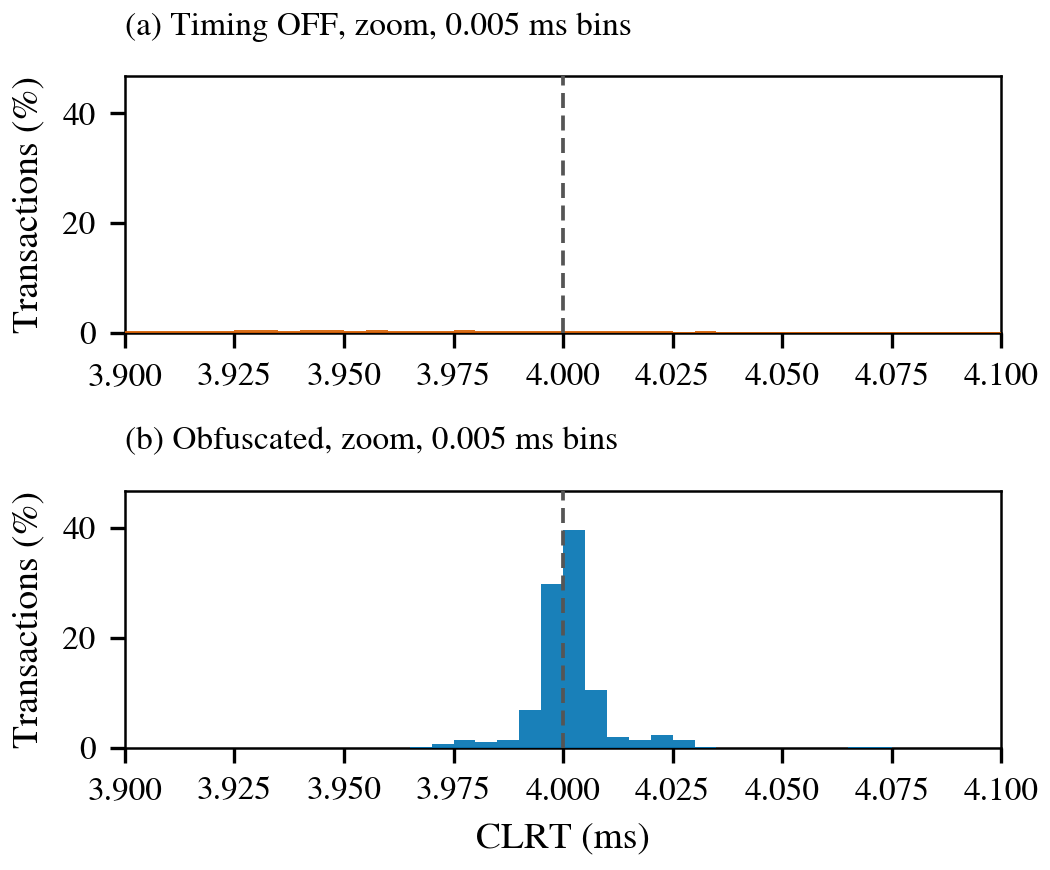
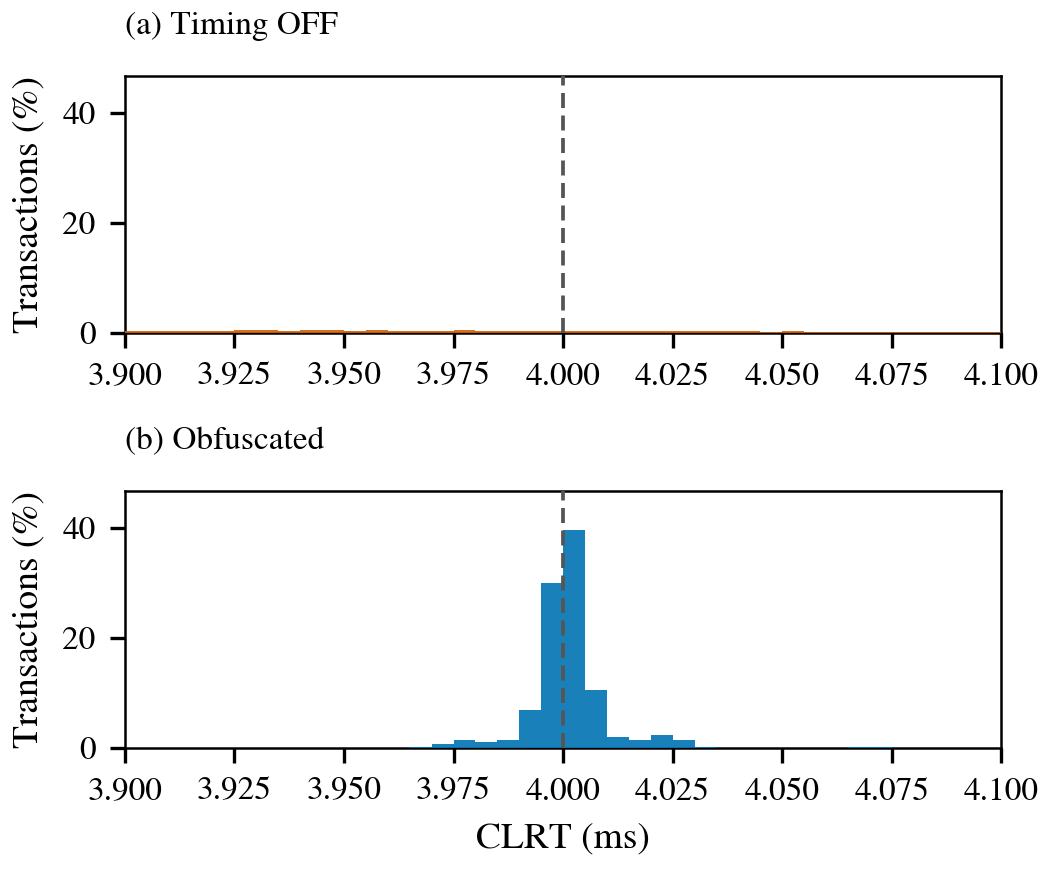
give the repository one definition of the response latency
The 2026-09-17 review found NOTATION_MAPPING.md holding four contradictory statements about D_R at
once, and the same stale definition repeated in the writing guide, REPOSITORY_MAP.md, the paper's
README, an audit note and a generated figure method file. An editor following the documented
authority could have undone a correct manuscript paragraph, which is the regression this repairs.

D_R is the response's whole journey, from the outstation putting the response on the wire to the
master receiving it, and it is unmeasured here. It is not m_R - t_R: that is a modelled partial
journey, and it is not measured either, because t_R is the response's arrival at the switch and no
capture records it. The identity now carries the relay-facing hop that the earlier one omitted.

The epsilon passage no longer calls the instrumented interval a lower bound on epsilon. Both of its
timestamps are taken in ingress on a recirculating blocker token, so it is an internal
blocker-termination interval and bounds epsilon in neither direction, which is what the manuscript
already says.

The CLRT zoom panels drop the bin width from their titles, where it repeated on both panels; the
caption states it.

diff --git a/defense4/timing/audit_current/tools/clrt_distribution_and_variance.py b/defense4/timing/audit_current/tools/clrt_distribution_and_variance.py
@@ -590,8 +590,9 @@ def figure_zoom(by_arm, target_ms, out, inputs, bin_rows):
         shares[arm] = 100.0 * inside / float(v.size)
         _draw_finite_bars(ax, pct, edges, arm)
         ax.axvline(target_ms, color=fs.GREY, ls=(0, (4, 2)), lw=0.9, zorder=5)
-        ax.set_title(_panel_title(tag, arm, ", zoom, %.3f ms bins" % w), loc="left",
-                     fontsize=8, pad=10.0)
+        # The bin width belongs in the caption, which states it, not in the panel title where it
+        # repeats on both panels and crowds the arm name.
+        ax.set_title(_panel_title(tag, arm, ""), loc="left", fontsize=8, pad=10.0)
         ax.set_xlim(z_lo, z_hi)
         ax.set_ylabel("Transactions (%)")
         for i in range(n):
@@ -665,7 +666,8 @@ def _method_note(w, w_fd_main, cutoff, panels, target_ms, acc):
         "`defense4/timing/NOTATION_MAPPING.md` that is m_R - m_A. It is CLRT_original in the "
         "Timing OFF arm and the measured CLRT_new in the Obfuscated arm. The configured value "
         "is the policy field named D_R_ms; under the manuscript's convention that field is the "
-        "configured CLRT_new and it is not D_R, which is the response latency m_R - t_R. "
+        "configured CLRT_new and it is not D_R, which is the response latency: the response's "
+        "whole journey from the outstation to the master, unmeasured here. "
         "Measured and configured quantities are never merged: the dashed line is the "
         "configuration, the bars are the measurement. "
         "Transaction accounting: the extractor pairs one request with the first transport "

diff --git a/paper/rewrite/figures/clrt/fig_clrt_distributions.method.md b/paper/rewrite/figures/clrt/fig_clrt_distributions.method.md
@@ -1,1 +1,1 @@
-READ transactions only, from the frozen canonical table `defense4/timing/evidence/campaign_v1/derived/transactions.csv`, which covers 22 grouped collection runs on one SEL-751A relay behind one Intel Tofino-1, all timestamps taken on the master-facing link, at the single configured setting in `campaign_v1/repro/policy_config.json` (D_A = 20 ms, the configured CLRT_new = 4 ms carried in the field named D_R_ms, size carve disabled). No other device, corpus or policy setting enters this figure. The policy sweep captures under `campaign_v1/sweep/` are a different workload and are not part of the canonical table, and the deliberate retransmission diagnostic under `relay_rto_20260915/` is a loss experiment, not an obfuscation result, and is excluded. CLRT is clrt_ms = (t_resp - t_ack) * 1e3, the interval between the transport acknowledgment arriving at the master host NIC and the application response arriving there, both timestamps taken at the same vantage on the master-facing link; in the notation of `defense4/timing/NOTATION_MAPPING.md` that is m_R - m_A. It is CLRT_original in the Timing OFF arm and the measured CLRT_new in the Obfuscated arm. The configured value is the policy field named D_R_ms; under the manuscript's convention that field is the configured CLRT_new and it is not D_R, which is the response latency m_R - t_R. Measured and configured quantities are never merged: the dashed line is the configuration, the bars are the measurement. Transaction accounting: the extractor pairs one request with the first transport acknowledgment and then the application response, so a retransmission cannot open a new transaction. Re-running the independent reader over all 132 campaign captures gives 63,360 exchanges with 0 retransmissions, 0 duplicate application frames, 0 malformed frames, 0 unpaired requests, 0 out-of-order timestamps and 0 frames from the wrong endpoint, matching the frozen table row for row. Of those, 52800 are READ and 10560 are SELECT or OPERATE and are not plotted here. 0 rows were dropped for a non-finite or non-positive interval, so the two arms carry equal counts and no transaction is missing a timestamp. Genuine late responses and timing outliers are retained; nothing is winsorized or smoothed. Binning follows Formby et al., NDSS 2016, who define the CLRT fingerprint as the vector of counts of an equal-width linear-bin histogram with an overflow bin for large values (their Equation 1) and plot CLRT distributions that way in their Figure 6(b); they evaluate 200-bin feature vectors for classification. The widths used here are our presentation choice and are not widths Formby states, and this figure is a plot rather than a classifier, so it carries no bin-count requirement. The main and companion panels use 1 ms bins anchored at 0 ms. Freedman-Diaconis on the Timing OFF sample gives 0.1866 ms; that rule assumes a roughly unimodal density and is reported rather than followed. Finite bins are half-open, [lo, hi), so a value equal to an interior edge belongs to the bin above it. The main view stops its finite bins at 15 ms and collects everything at or above that value, the cutoff itself included, into one overflow category drawn apart from the bins and hatched so it cannot be read as the ordinary interval; it holds 0.409 % of the Timing OFF sample and 0.027 % of the Obfuscated sample. The same cutoff is used in both panels. The companion figure `fig_clrt_distributions_full` repeats the comparison with no cutoff at all, so no tail is lost. Bins were not shifted off the origin: the configured 4 ms falls exactly on an edge, which divides the obfuscated mass between the 3--4 and 4--5 ms bins, and that is left visible rather than hidden by moving the grid. Both panels share one pair of limits and one edge set, so a bar in one and a bar in its counterpart mean the same thing at the same height. The ordinate is linear and is a percentage of that arm's own transactions, weight 100/n, so the comparison does not depend on the two arms having equal samples; it is a per-bin share and not a probability density. No smoothing, kernel or per-sample spike is drawn. Bin counts including the overflow category are checked to sum to the plotted sample and the percentages to total 100 % before the figure is written. Every statistic in the annotations and in the CSVs is computed from the raw millisecond samples, never from bin centres; sample variance uses the n-1 denominator.
+READ transactions only, from the frozen canonical table `defense4/timing/evidence/campaign_v1/derived/transactions.csv`, which covers 22 grouped collection runs on one SEL-751A relay behind one Intel Tofino-1, all timestamps taken on the master-facing link, at the single configured setting in `campaign_v1/repro/policy_config.json` (D_A = 20 ms, the configured CLRT_new = 4 ms carried in the field named D_R_ms, size carve disabled). No other device, corpus or policy setting enters this figure. The policy sweep captures under `campaign_v1/sweep/` are a different workload and are not part of the canonical table, and the deliberate retransmission diagnostic under `relay_rto_20260915/` is a loss experiment, not an obfuscation result, and is excluded. CLRT is clrt_ms = (t_resp - t_ack) * 1e3, the interval between the transport acknowledgment arriving at the master host NIC and the application response arriving there, both timestamps taken at the same vantage on the master-facing link; in the notation of `defense4/timing/NOTATION_MAPPING.md` that is m_R - m_A. It is CLRT_original in the Timing OFF arm and the measured CLRT_new in the Obfuscated arm. The configured value is the policy field named D_R_ms; under the manuscript's convention that field is the configured CLRT_new and it is not D_R, which is the response latency: the response's whole journey from the outstation to the master, unmeasured here. Measured and configured quantities are never merged: the dashed line is the configuration, the bars are the measurement. Transaction accounting: the extractor pairs one request with the first transport acknowledgment and then the application response, so a retransmission cannot open a new transaction. Re-running the independent reader over all 132 campaign captures gives 63,360 exchanges with 0 retransmissions, 0 duplicate application frames, 0 malformed frames, 0 unpaired requests, 0 out-of-order timestamps and 0 frames from the wrong endpoint, matching the frozen table row for row. Of those, 52800 are READ and 10560 are SELECT or OPERATE and are not plotted here. 0 rows were dropped for a non-finite or non-positive interval, so the two arms carry equal counts and no transaction is missing a timestamp. Genuine late responses and timing outliers are retained; nothing is winsorized or smoothed. Binning follows Formby et al., NDSS 2016, who define the CLRT fingerprint as the vector of counts of an equal-width linear-bin histogram with an overflow bin for large values (their Equation 1) and plot CLRT distributions that way in their Figure 6(b); they evaluate 200-bin feature vectors for classification. The widths used here are our presentation choice and are not widths Formby states, and this figure is a plot rather than a classifier, so it carries no bin-count requirement. The main and companion panels use 1 ms bins anchored at 0 ms. Freedman-Diaconis on the Timing OFF sample gives 0.1866 ms; that rule assumes a roughly unimodal density and is reported rather than followed. Finite bins are half-open, [lo, hi), so a value equal to an interior edge belongs to the bin above it. The main view stops its finite bins at 15 ms and collects everything at or above that value, the cutoff itself included, into one overflow category drawn apart from the bins and hatched so it cannot be read as the ordinary interval; it holds 0.409 % of the Timing OFF sample and 0.027 % of the Obfuscated sample. The same cutoff is used in both panels. The companion figure `fig_clrt_distributions_full` repeats the comparison with no cutoff at all, so no tail is lost. Bins were not shifted off the origin: the configured 4 ms falls exactly on an edge, which divides the obfuscated mass between the 3--4 and 4--5 ms bins, and that is left visible rather than hidden by moving the grid. Both panels share one pair of limits and one edge set, so a bar in one and a bar in its counterpart mean the same thing at the same height. The ordinate is linear and is a percentage of that arm's own transactions, weight 100/n, so the comparison does not depend on the two arms having equal samples; it is a per-bin share and not a probability density. No smoothing, kernel or per-sample spike is drawn. Bin counts including the overflow category are checked to sum to the plotted sample and the percentages to total 100 % before the figure is written. Every statistic in the annotations and in the CSVs is computed from the raw millisecond samples, never from bin centres; sample variance uses the n-1 denominator.

diff --git a/defense4/timing/NOTATION_MAPPING.md b/defense4/timing/NOTATION_MAPPING.md
@@ -13,7 +13,7 @@ convention below, and this file is the bridge.
 | symbol | earlier revision | now |
 |---|---|---|
 | `CLRT_target` | the configured acknowledgment-to-response gap | **withdrawn.** That quantity is now the *configured* `CLRT_new` |
-| `D_R` | the RESPONSE hold, `e_R - t_R` | **the response latency,** `m_R - t_R`. The hold keeps no symbol and is written from its endpoints |
+| `D_R` | the RESPONSE hold, `e_R - t_R` | **the response latency:** the response's whole journey, outstation transmission to master receipt, which is unmeasured here. The hold keeps no symbol and is written from its endpoints |
 
 There is no `X`, `Y`, or `C` for any of these quantities anywhere in the manuscript.
 
@@ -44,7 +44,7 @@ plus the differential path and capture delay between the two packets, which was 
 | `CLRT_new` | `e_R - e_A`, the acknowledgment-to-response interval after obfuscation | the obfuscation objective |
 | `D_A` | `e_A - t_A`, the **ACK hold** | transport feedback and retransmission timing |
 | response hold | `e_R - t_R`; **no symbol of its own** | not chosen; implied by the schedule |
-| `D_R` | `m_R - t_R`, the **response latency** | the operation, through whatever latency requirement the deployment carries |
+| `D_R` | the **response latency**: outstation transmission to master receipt, **unmeasured** | the operation, through whatever latency requirement the deployment carries |
 
 `CLRT_new` is used with one of two adjectives and never bare where the distinction matters:
 
@@ -95,19 +95,23 @@ So three different intervals must be kept apart, and only the second is observed
 | | interval | status |
 |---|---|---|
 | the full response latency, `D_R` | outstation transmission to master receipt | **unmeasured** |
-| the observed portion | `m_R - t_R`, switch arrival to master receipt | measured |
+| the partial journey | `m_R - t_R`, switch arrival to master receipt | **not measured either:** `m_R` is captured, `t_R` is not |
 | the switch's own contribution | `e_R - t_R`, the response hold | derived, see below |
 
-`m_R - t_R` is a lower bound on `D_R` and is referred to as the observed portion of the response
-journey, never as `D_R` itself. Reporting added latency, or a master-side CLRT, as a measurement
-of `D_R` would assert a quantity no capture here contains.
+`m_R - t_R` is a *modelled* partial journey and a lower bound on `D_R`. It is written from the
+model's endpoints rather than from timestamps this repository holds, because `t_R` is the
+response's arrival at the switch and no capture records it. Calling it measured, which an earlier
+revision of this file did, overstates what exists. Reporting added latency, or a master-side CLRT,
+as a measurement of `D_R` would assert a quantity no capture here contains.
 
-Because `e_R` is the response's **actual** departure from the switch, the exact identity is
+Writing `o` for the instant the outstation puts the response on the wire, the identity is
 
-    D_R = (e_R - t_R) + (m_R - e_R)
+    D_R = (t_R - o) + (e_R - t_R) + (m_R - e_R)
 
-that is, the actual hold plus the path from the switch to the master. An earlier revision of
-this file listed the hold and a separate blocker-draining term side by side. That double-counts:
+that is, the relay-facing hop, then the actual hold, then the path from the switch to the master.
+The first term is not observed at all, which is the reason `D_R` is unmeasured; an earlier
+revision omitted it and so defined `D_R` as something smaller than it is. A second earlier
+revision listed the hold and a separate blocker-draining term side by side, which double-counts:
 an actual departure already includes whatever post-deadline waiting preceded it, so the drain
 cannot be added again beside it.
 
@@ -123,8 +127,12 @@ If the hold is to be broken down further, it decomposes **once**, into three dis
    and 1,705 ns on the response lane, medians over twelve transactions, after decoding the armed
    marker in the deadline word; see
    `audit_current/epsilon_candidate/ATTRIBUTION_AND_DECODE_20260916.md`, which also records that
-   the build's identity is incompletely attributed. That interval ends at the last blocking
-   action and so is a lower bound on epsilon rather than epsilon itself. It characterizes the
+   the build's identity is now attributed. That interval ends at the last blocking action, and
+   both of its timestamps are taken in ingress on a recirculating blocker token, so it is
+   reported as an **internal blocker-termination interval** and is **not** claimed to bound
+   epsilon in either direction: the blocker's last traffic-manager service precedes its return to
+   ingress, and the ordering of the two endpoints has not been established. An earlier revision
+   of this file called it a lower bound on epsilon; that claim is withdrawn. It characterizes the
    mechanism and not any exchange in `campaign_v1`;
 3. **subsequent service** — from the end of blocking to the packet actually leaving.
 
@@ -145,7 +153,7 @@ which governs how long a select stays armed rather than how quickly a response m
 
 | | meaning | value in `campaign_v1` |
 |---|---|---|
-| Paper | `D_R`, the response latency `m_R - t_R` | per transaction; not directly observed |
+| Paper | `D_R`, the response latency, outstation transmission to master receipt | per transaction; **unmeasured** |
 | Code and archived evidence, field `D_R_ms` | the configured acknowledgment-to-response gap | 4 ms, constant |
 
 So **the code's `D_R_ms` maps to the paper's configured `CLRT_new`**, and the paper's `D_R` has no

diff --git a/paper/rewrite/pipeline/DR_LIN_WRITING_GUIDE.md b/paper/rewrite/pipeline/DR_LIN_WRITING_GUIDE.md
@@ -23,7 +23,9 @@ grammar, tense or factual content in place. Record concerns in
 supersedes the revision that briefly made `D_R` the response hold and introduced `CLRT_target`.
 
 * `D_A` is the **ACK hold**, `e_A - t_A`.
-* `D_R` is the **response latency**, `m_R - t_R`. It is not the hold and not the configured gap.
+* `D_R` is the **response latency**: the response's whole journey from the outstation to the
+  master. It is unmeasured here, it is not `m_R - t_R`, and it is neither the hold nor the
+  configured gap.
 * The **response hold**, `e_R - t_R`, has no symbol of its own and is written from its endpoints.
 * The configured gap is the **configured `CLRT_new`**. `CLRT_target` is withdrawn; do not use it.
 * Say **configured `CLRT_new`** for the policy value and **measured `CLRT_new`** for what the
@@ -42,7 +44,7 @@ field or a control-plane parameter to match the paper.
 | Introduction paragraph 3 as "why those approaches do not transfer", argued through DNP3 framing and CRC | His paragraph 3: different fingerprinting features, and the encrypted-channel assumption that does not hold here. The CRC and no-flexibility arguments are removed from the motivation. |
 | The prescribed Evaluation running order in section 2 | The reader's questions: what was measured; does the released interval reach its target; the control lane; the supported range; the cost; what the attacker still learns; limitations. The RO1-RO5 tags are retained inside those headings. |
 | Any requirement to assert firstness | Firstness is not required and is not asserted. |
-| Treating `D_R` as the configured gap, or as the response hold, in prose, equations or figure labels | The **configured `CLRT_new`** for the policy value; the response hold written from its endpoints `e_R - t_R`. `D_R` is the response latency `m_R - t_R`. |
+| Treating `D_R` as the configured gap, or as the response hold, in prose, equations or figure labels | The **configured `CLRT_new`** for the policy value; the response hold written from its endpoints `e_R - t_R`. `D_R` is the response latency, which is unmeasured here. |
 
 **Still in force and reaffirmed:** timing only, no size claim anywhere; no invented system name;
 the framework leads and READ/SELECT and OPERATE are its case studies; arm labels are *Timing OFF*
@@ -136,7 +138,7 @@ this draft, not a structure the advisor dictated.
 | timing-feature overlap (Figure 3) | clustering performance, t-SNE, UMAP |
 | transaction-class timing leakage / classifier | device identification, device-model separation |
 | CLRT (cross-layer response time) = response − ACK, master-facing | ACK-to-response "latency of the relay" without the observation point |
-| D_A = ACK hold; D_R = **response latency** `m_R - t_R`; the response hold `e_R - t_R` has no symbol; the configured gap is the **configured CLRT_new** (read path, both deadlines anchored to the relay ACK); A, R, J (control path, anchored to the request) | G; T0 + A for reads; `CLRT_target`, which is withdrawn; `D_R` for the configured gap or for the hold |
+| D_A = ACK hold; D_R = **response latency**, the response's whole journey from the outstation to the master, which is unmeasured here; the response hold `e_R - t_R` has no symbol; the configured gap is the **configured CLRT_new** (read path, both deadlines anchored to the relay ACK); A, R, J (control path, anchored to the request) | G; T0 + A for reads; `CLRT_target`, which is withdrawn; `D_R` for the configured gap or for the hold |
 | size shaping **off in both arms** in `campaign_v1`, so the comparison is timing only | "size shaping active in both arms", which was true of the superseded corpus and is stale for the current campaign |
 
 ## 6. Claim gates (every sentence of results must pass)

diff --git a/paper/rewrite/README.md b/paper/rewrite/README.md
@@ -55,7 +55,8 @@ pipeline/reports/               PRE_REWRITE_KNOWLEDGE, PRE_REWRITE_RECONCILIATIO
 
 `pipeline/DR_LIN_WRITING_GUIDE.md`. In short: the framework is the contribution and READ and
 SELECT/OPERATE are case studies; the arms are Timing OFF and Obfuscated; the read path is anchored
-to the relay acknowledgment (CLRT = D_R) and the control path to the request (echo − ACK = R − A);
+to the outstation acknowledgment, where the observable is the CLRT, and the control path to
+the request, where it is R − A;
 no size claim, no system name, no firstness claim, no em dashes; every result number traces to
 `figures/ndss/MANUSCRIPT_VALUES.json`, which is regenerated from the raw captures by
 `defense4/timing/evidence/campaign_v1/repro/reproduce.sh` and is the only file the manuscript

diff --git a/REPOSITORY_MAP.md b/REPOSITORY_MAP.md
@@ -82,6 +82,7 @@ corpus ran with shaping **active** in both arms, where responses are split 28+21
 is therefore a reliable tell for which configuration produced a capture.
 
 **Notation.** `defense4/timing/NOTATION_MAPPING.md` is the authority, as fixed on 2026-09-09.
-`D_A` is the ACK hold; `D_R` is the response latency `m_R - t_R`; the response hold `e_R - t_R`
+`D_A` is the ACK hold; `D_R` is the response latency, the response's whole journey from the
+outstation to the master, which is unmeasured here; the response hold `e_R - t_R`
 has no symbol; the configured gap is the **configured `CLRT_new`**, carried in the code by the
 field still named `D_R_ms`. `CLRT_target` is withdrawn. Archived field names are never renamed.

diff --git a/defense4/timing/audit_current/RESPONSE_LATENCY_BUDGET.md b/defense4/timing/audit_current/RESPONSE_LATENCY_BUDGET.md
@@ -4,7 +4,8 @@ Prepared 2026-09-08. Desk research only. No hardware was run and no other file w
 
 > **Notation, 2026-09-09.** This note uses the code convention throughout: `D_R` here is the
 > configuration field `D_R_ms` = 4 ms, which the paper now calls the **configured `CLRT_new`**.
-> The paper's `D_R` is a different quantity, the response latency `m_R - t_R`. The bound this
+> The paper's `D_R` is a different quantity, the response latency: the whole journey from the
+> outstation to the master, which is unmeasured here. The bound this
 > note searches for applies to the paper's `D_R`. See `defense4/timing/NOTATION_MAPPING.md`.
 
 ## Question
